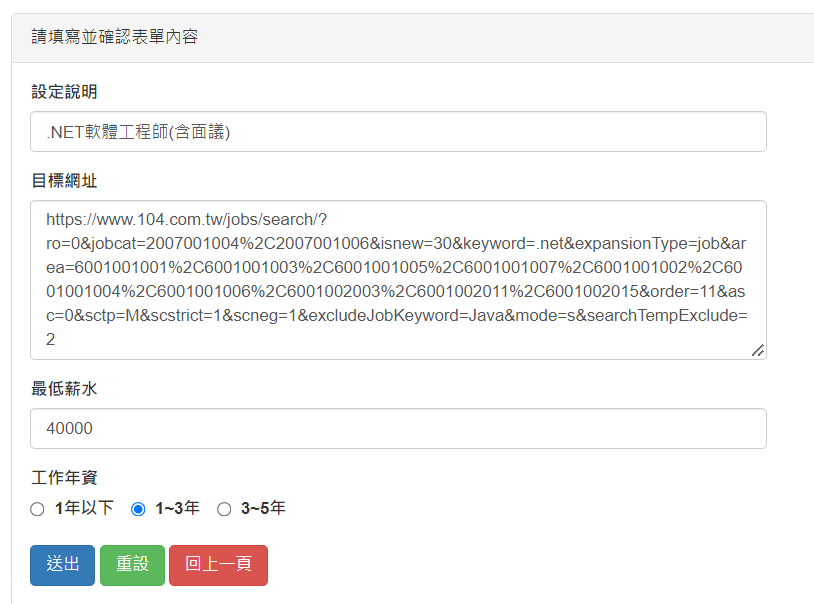
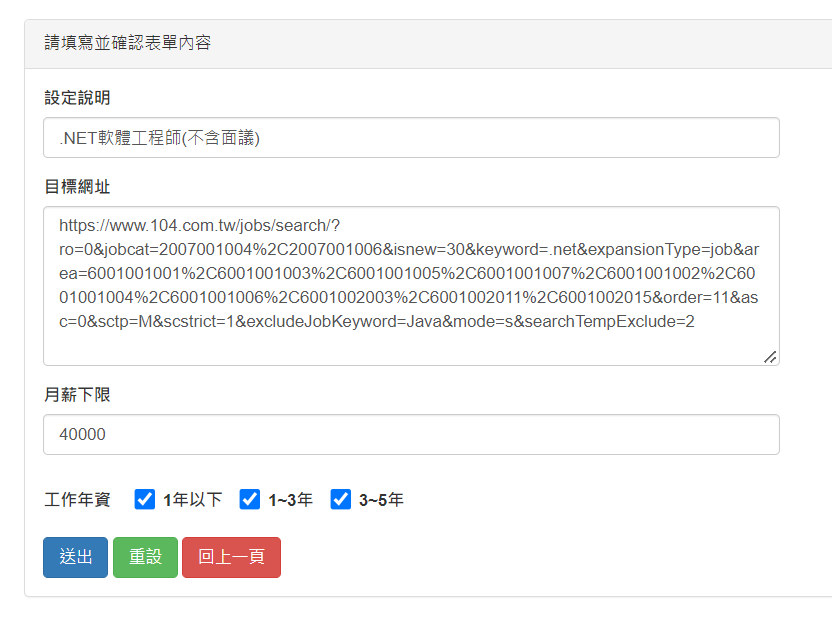
將工作年資改成多選 & 調整封鎖理由 & 更新示意圖

diff --git a/JobFilter2/Controllers/CrawlSettingController.cs b/JobFilter2/Controllers/CrawlSettingController.cs
@@ -47,10 +47,17 @@ namespace JobFilter2.Controllers
 
         [HttpPost]
         [ValidateAntiForgeryToken]
-        public async Task<IActionResult> Create(CrawlSetting data)
+        public async Task<IActionResult> Create(CrawlSetting data, string seniority1, string seniority2, string seniority3)
         {
             try
             {
+                // 調整年資欄位
+                List<string> sList = new List<string>();
+                if (!string.IsNullOrEmpty(seniority1)) sList.Add(seniority1);
+                if (!string.IsNullOrEmpty(seniority2)) sList.Add(seniority2);
+                if (!string.IsNullOrEmpty(seniority3)) sList.Add(seniority3);
+                data.Seniority = string.Join(",", sList);
+
                 // 新增爬蟲設定 & 寫入DB
                 _context.Add(data);
                 await _context.SaveChangesAsync();
@@ -92,10 +99,18 @@ namespace JobFilter2.Controllers
 
         [HttpPost]
         [ValidateAntiForgeryToken]
-        public async Task<IActionResult> Edit(CrawlSetting data)
+        public async Task<IActionResult> Edit(CrawlSetting data, string seniority1, string seniority2, string seniority3)
         {
             try
             {
+                // 調整年資欄位
+                List<string> sList = new List<string>();
+                if (!string.IsNullOrEmpty(seniority1)) sList.Add(seniority1);
+                if (!string.IsNullOrEmpty(seniority2)) sList.Add(seniority2);
+                if (!string.IsNullOrEmpty(seniority3)) sList.Add(seniority3);
+                data.Seniority = string.Join(",", sList);
+
+                // 設定欲修改的欄位
                 _context.Entry(data).Property(p => p.TargetUrl).IsModified = true;
                 _context.Entry(data).Property(p => p.MinSalary).IsModified = true;
                 _context.Entry(data).Property(p => p.Seniority).IsModified = true;

diff --git a/JobFilter2/Services/CrawlService.cs b/JobFilter2/Services/CrawlService.cs
@@ -26,15 +26,7 @@ namespace JobFilter2.Services
         /// </summary>
         public async Task LoadPage(Crawler crawler, CrawlSetting crawlSetting, int currentPage = 1)
         {
-            int seniority = crawlSetting.Seniority switch
-            {
-                "1年以下" => 1,
-                "1~3年" => 3,
-                "3~5年" => 5,
-                _ => 1,
-            };
-
-            string targetUrl = crawlSetting.TargetUrl + $"&scmin={crawlSetting.MinSalary}&page={currentPage}&jobexp={seniority}";
+            string targetUrl = crawlSetting.TargetUrl + $"&scmin={crawlSetting.MinSalary}&page={currentPage}&jobexp={crawlSetting.Seniority}";
 
             try
             {

diff --git a/JobFilter2/Services/Utility.cs b/JobFilter2/Services/Utility.cs
@@ -21,7 +21,7 @@ namespace JobFilter2.Services
             { "R06", "表定時間超過9小時" },
             { "R05", "搜尋評論後失去興趣" },
             { "R08", "對這類產業沒有興趣" },
-            { "R09", "看完應徵說明後失去興趣" },
+            { "R09", "看完職缺/應徵說明後失去興趣" },
             { "R13", "看完公司/福利介紹後失去興趣" },
             { "R07", "面試邀約/詢問後失去興趣" },
             { "R10", "面試後失去興趣/無聲卡" },

diff --git a/readme.md b/readme.md
@@ -55,16 +55,16 @@ create table CrawlSetting
 # 網站首頁(爬蟲列表)  
 ![image](https://github.com/Jacky20200711/JobFilter2/blob/master/DEMO_01.PNG?raw=true)  
 &emsp;   
-# 修改爬蟲設定  
+# 新增/修改爬蟲設定  
 ![image](https://github.com/Jacky20200711/JobFilter2/blob/master/DEMO_02.PNG?raw=true)  
 &emsp;  
 # 點選[爬取工作]，取得過濾後的工作列表  
 ![image](https://github.com/Jacky20200711/JobFilter2/blob/master/DEMO_03.PNG?raw=true)  
 &emsp;  
-# 點選職位名稱的超連結，開啟該職缺的104頁面  
+# 點選[職位名稱的超連結]，開啟該職缺的104頁面  
 ![image](https://github.com/Jacky20200711/JobFilter2/blob/master/DEMO_04.PNG?raw=true)  
 &emsp;  
-# 點選封鎖公司之後，彈出選擇理由的視窗  
+# 點選[封鎖公司]，彈出選擇理由的視窗  
 ![image](https://github.com/Jacky20200711/JobFilter2/blob/master/DEMO_05.PNG?raw=true)  
 &emsp;  
 # 將DB的資料匯出成CSV檔案  
